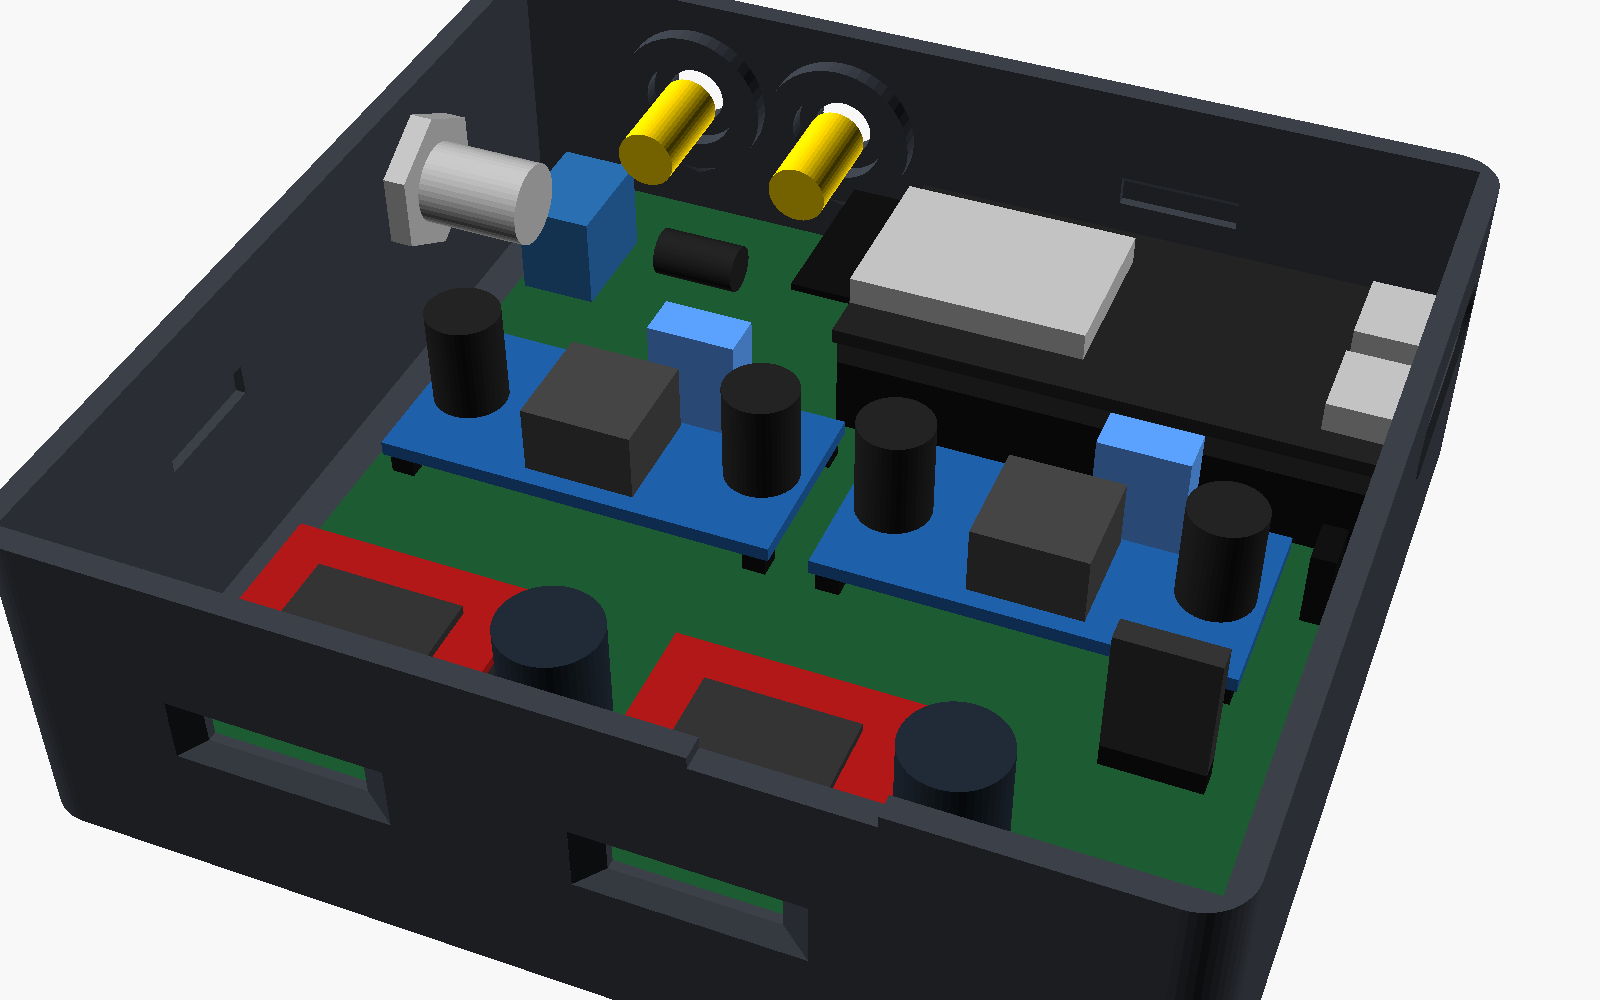
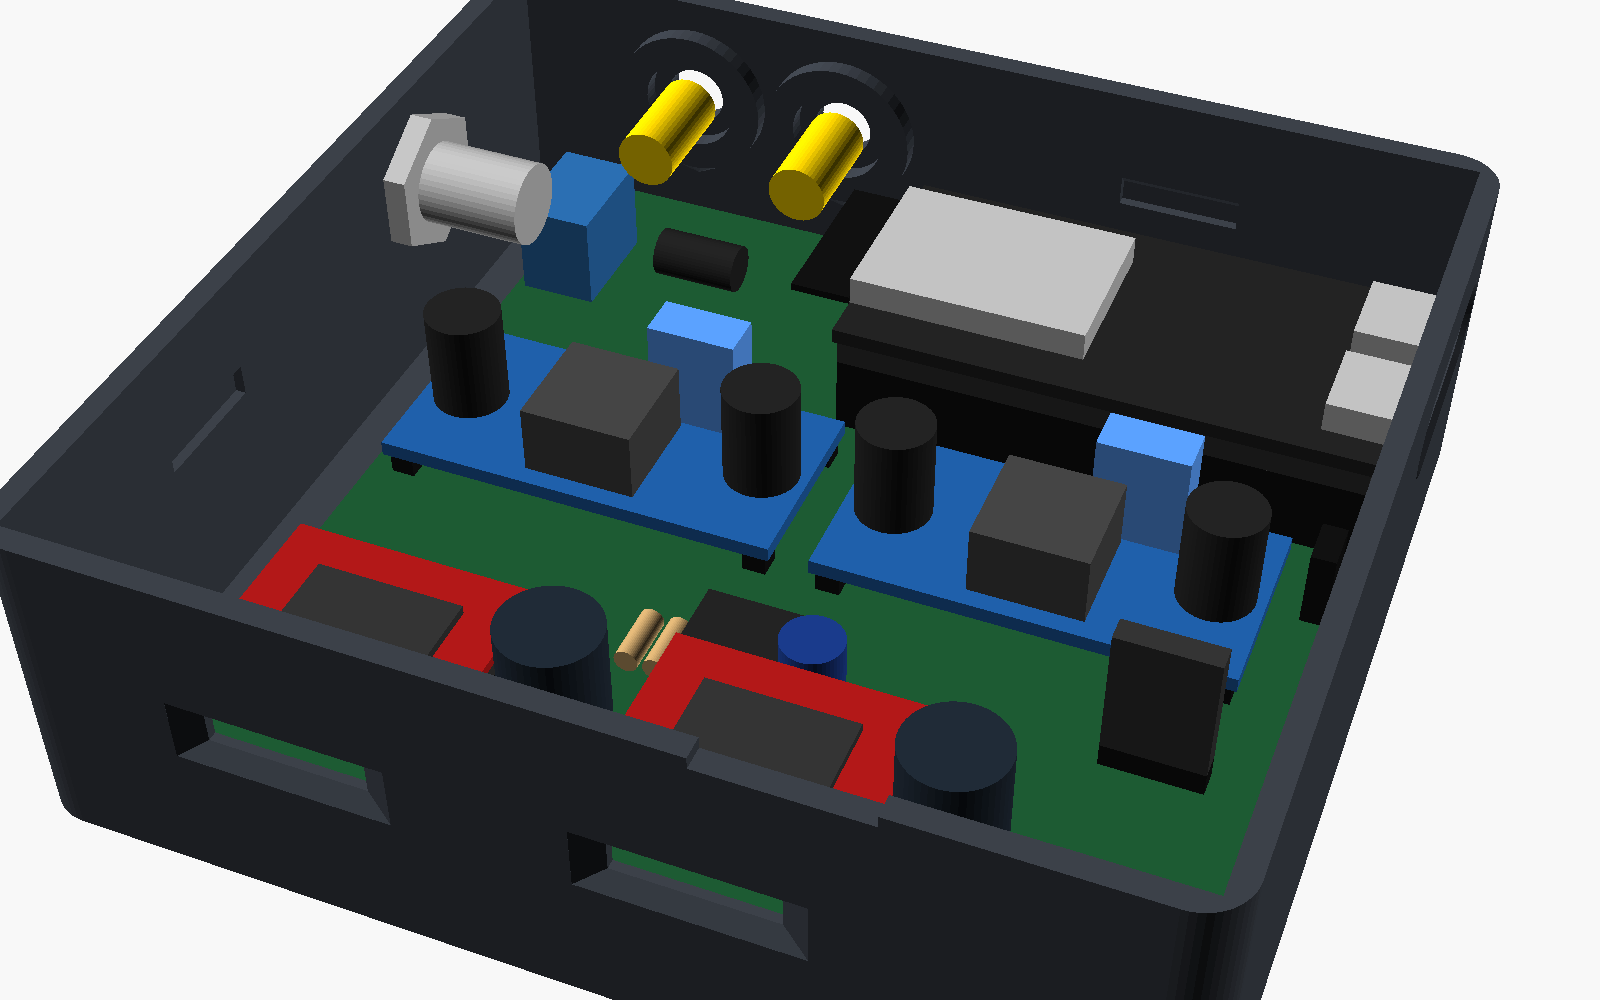
v2 case pictures show the LM1084 regulator; README: drop the older-pictures note
The v2 case model now has the LM1084 (lying flat), its 100 uF capacitor and R6/R7, so the inside,
see-through and exploded renders match the current PCB. The collision check is unchanged. The PCB
renders, the wiring diagram and the panel screenshots were checked and are current.

Changed region(s): [[0.375, 0.589, 0.5312, 0.682]]

diff --git a/README.md b/README.md
@@ -13,10 +13,6 @@ printed case.
 
 All case images are rendered from the OpenSCAD source in `source/`.
 
-> **Note:** some pictures in this README show an earlier version of the panel, the case or the
-> PCB, so the latest version can look a little different. The text always describes the latest
-> version.
-
 ## The idea
 
 This is a hobby project. I carried the idea around for about three years before I finally sat
@@ -206,7 +202,7 @@ supports (profile: `case/v1/bambu/SMS case 0.20mm @BBL X2D.json`). Print times o
 |---|---|
 | <img src="case/v2/v2_preview_front.png" alt="Closed v2 case from the front: two SIM card slots, OLED window, vents and engraved port names in the lid" width="400"> | <img src="case/v2/v2_preview_back.png" alt="Closed v2 case from the back: two SMA antenna holes, the 12 V jack hole in the left wall" width="400"> |
 | **Inside** | **X-ray (lid transparent)** |
-| <img src="case/v2/v2_preview_inside.png" alt="Open v2 box with the carrier PCB: ESP32-S3 at the back right, LM2596 modules in the middle, SIM800Ls and capacitors at the front, 12 V jack and antenna sockets at the back left" width="400"> | <img src="case/v2/v2_preview_xray.png" alt="Assembled v2 case with a see-through lid showing the PCB, the modules and the OLED" width="400"> |
+| <img src="case/v2/v2_preview_inside.png" alt="Open v2 box with the carrier PCB: ESP32-S3 at the back right, LM2596 modules in the middle, the LM1084 regulator lying flat between the SIM800Ls, SIM800Ls and capacitors at the front, 12 V jack and antenna sockets at the back left" width="400"> | <img src="case/v2/v2_preview_xray.png" alt="Assembled v2 case with a see-through lid showing the PCB, the modules and the OLED" width="400"> |
 
 Outside size 113.2 x 105.8 x 35 mm + 3.2 mm lid. The PCB clicks onto 4 snap pins in its corner
 holes, and 10 posts underneath keep it flat when you plug the modules in. The SIM cards go in

diff --git a/README.fa.md b/README.fa.md
@@ -45,8 +45,6 @@
 
 همهی کارهای دستگاه در پنل وب روی سرور خودتان دیده میشود. دادههای این تصویرها ساختگی است.
 
-> **توجه:** بعضی از تصویرهای این راهنما (پنل، جعبه یا PCB) مربوط به نسخههای قبلی هستند و نسخهی آخر ممکن است کمی فرق داشته باشد. متن همیشه نسخهی آخر را توضیح میدهد.
-
 <p align="center">
   <img src="docs/panel/overview.png" alt="صفحهی اصلی پنل: وضعیت دستگاه، دو سیمکارت، آمار ۲۴ ساعت، پیامکها و تماسهای اخیر" width="820">
 </p>
